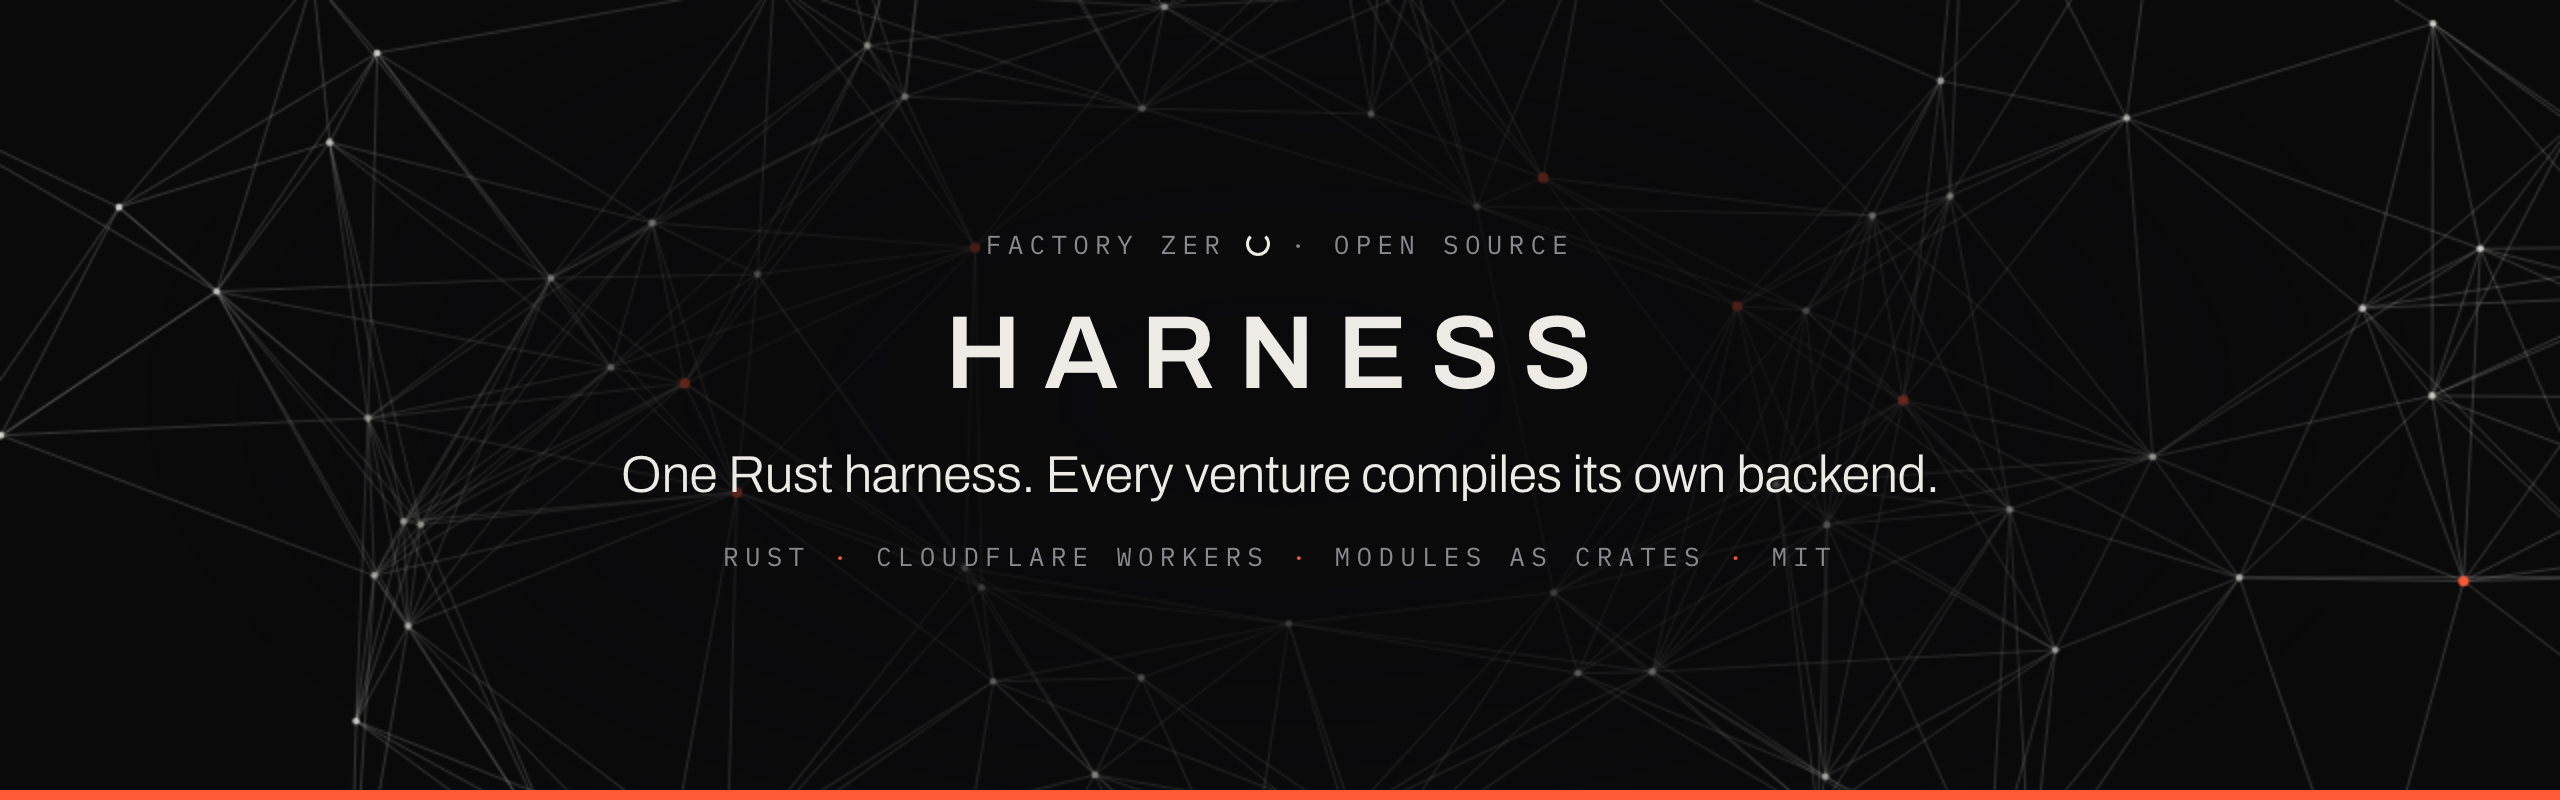
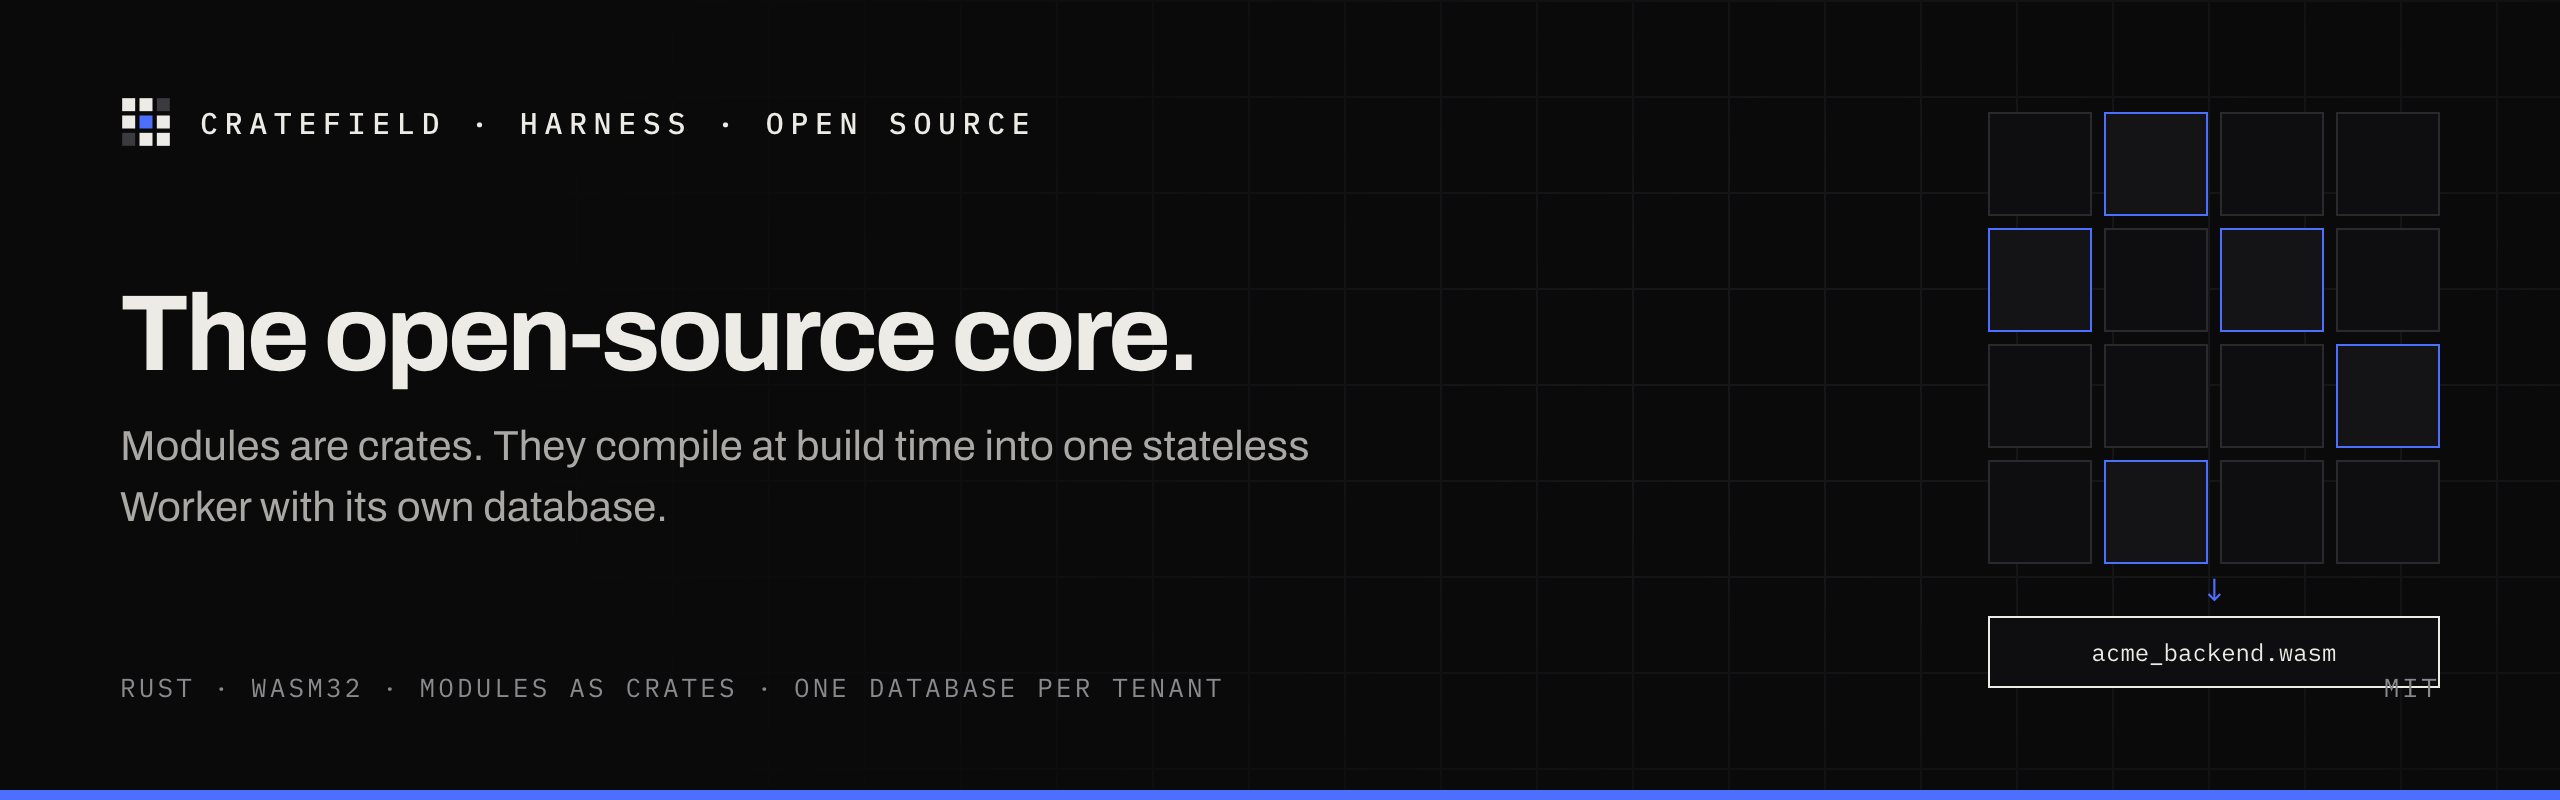
Rehome the harness under Cratefield
The repository moved from the Factory-Zero organisation to Cratefield, which is
the venture that commercialises it. This updates everything that pointed at the
old location or read as Factory Zero's own infrastructure.

- Every self-referencing URL, including the crate `repository` metadata that
  would be published to crates.io, the release-plz changelog base, the
  conformance workflow's reusable-call example, the CLI help text and the
  per-crate READMEs. GitHub redirects the old paths, but published metadata
  should name the real home.
- `Factory-Zero/harness-private`, `venture-backend-template` and
  `factory0-backend` are deliberately untouched. Those repositories stay in
  Factory Zero, and the private modules repo shares a URL prefix with this one,
  so the rewrite excluded it explicitly rather than by hope.
- The banner and a 1280x640 social preview are rendered from the same visual
  system as cratefield.com: the mesh, the field of modules resolving into one
  binary, and the one accent. Badge colour follows from Factory Zero's orange
  to Cratefield's blue.
- The intro no longer opens on the studio. It opens on what the harness is, and
  names Cratefield as the managed service being built on top, in the conditional
  because that service does not exist yet.

Crate names keep the `factory0-` prefix. Renaming published package names is a
breaking change for every consumer and buys nothing today, so the README says
[…]

diff --git a/tools/banner-render.html b/tools/banner-render.html
@@ -1,74 +1,110 @@
 <!DOCTYPE html>
-<!-- Source for assets/readme-banner.png. Regenerate with tools/render-banner.sh.
-     Query params: k=kicker t=title ("{o}" renders the Factory Zero ring) s=subtitle m=meta seed=n -->
+<!-- Source for assets/readme-banner.png and assets/social-preview.png.
+     Regenerate with tools/render-banner.sh.
+     Query params: k=kicker t=title s=subtitle m=meta h=height (400 | 640)
+
+     Deliberately the same visual system as cratefield.com: the 56px mesh, the
+     field of modules and ports resolving into one binary, and the one accent. -->
 <html lang="en">
 <head>
 <meta charset="utf-8">
 <link rel="preconnect" href="https://fonts.googleapis.com">
 <link rel="preconnect" href="https://fonts.gstatic.com" crossorigin>
-<link href="https://fonts.googleapis.com/css2?family=Archivo:wght@300;400;600&family=IBM+Plex+Mono:wght@400;500&display=swap" rel="stylesheet">
+<link href="https://fonts.googleapis.com/css2?family=Archivo:wght@400;500;600;700&family=IBM+Plex+Mono:wght@400;500&display=swap" rel="stylesheet">
 <style>
-  *{box-sizing:border-box}
-  html,body{margin:0;padding:0;background:#0A0A0B;width:1280px;height:400px;overflow:hidden}
-  .b{position:relative;width:1280px;height:400px;color:#EDEBE6;font-family:'Archivo',system-ui,sans-serif;-webkit-font-smoothing:antialiased}
-  canvas{position:absolute;inset:0;display:block}
-  .veil{position:absolute;inset:0;background:radial-gradient(ellipse 46% 70% at 50% 50%, rgba(10,10,11,.94) 0%, rgba(10,10,11,.72) 45%, rgba(10,10,11,0) 100%)}
-  .c{position:absolute;inset:0;display:grid;align-content:center;justify-items:center;gap:18px}
-  .kick{font-family:'IBM Plex Mono',monospace;font-size:13px;letter-spacing:.24em;color:#8A8A8E;display:flex;align-items:center;gap:10px}
-  .kick .o{width:12px;height:12px;border:1.6px solid #EDEBE6;border-top-color:transparent;border-radius:50%;display:inline-block}
-  .mark{display:flex;align-items:center;gap:16px;font-weight:600;font-size:52px;letter-spacing:.22em;text-transform:uppercase}
-  .mark .o{width:44px;height:44px;border:3.5px solid currentColor;border-top-color:transparent;border-radius:50%;display:inline-block;position:relative;top:-2px}
-  .tag{font-weight:300;font-size:26px;letter-spacing:-.01em;color:#EDEBE6;text-align:center;max-width:980px}
-  .meta{font-family:'IBM Plex Mono',monospace;font-size:13px;letter-spacing:.24em;color:#8A8A8E}
-  .meta b{color:#FF5A36;font-weight:400}
-  .rule{position:absolute;left:0;right:0;bottom:0;height:5px;background:#FF5A36}
+  * { box-sizing: border-box; }
+  html, body { margin: 0; padding: 0; background: #0A0A0B; overflow: hidden; }
+  .b {
+    position: relative; width: 1280px; color: #EDEBE6;
+    font-family: Archivo, system-ui, sans-serif; -webkit-font-smoothing: antialiased;
+  }
+  .mesh {
+    position: absolute; inset: 0;
+    background-image: linear-gradient(#16161a 1px, transparent 1px), linear-gradient(90deg, #16161a 1px, transparent 1px);
+    background-size: 48px 48px;
+    -webkit-mask-image: radial-gradient(ellipse 58% 100% at 78% 45%, #000 25%, transparent 100%);
+  }
+  .c { position: relative; height: 100%; display: grid; grid-template-rows: auto 1fr auto; padding: 48px 60px; }
+  .top { display: flex; align-items: center; gap: 14px; font-family: 'IBM Plex Mono', monospace; font-size: 15px; letter-spacing: .22em; font-weight: 500; }
+  .top svg { display: block; }
+  .mid { align-self: center; }
+  h1 { margin: 0 0 14px; font-weight: 700; letter-spacing: -.035em; line-height: 1; max-width: 700px; }
+  .tag { font-size: 21px; line-height: 1.45; color: #A9A8A5; max-width: 640px; margin: 0; }
+  .bottom { display: flex; justify-content: space-between; align-items: flex-end; gap: 32px; font-family: 'IBM Plex Mono', monospace; font-size: 13px; letter-spacing: .12em; color: #8A8A8E; }
+  .rule { position: absolute; left: 0; right: 0; bottom: 0; height: 5px; background: #4C6FFF; }
+
+  /* The field: modules and ports compiling into one binary. */
+  .field { position: absolute; display: grid; grid-template-columns: repeat(4, 52px); gap: 6px; }
+  .field i { display: block; width: 52px; height: 52px; border: 1px solid #2A2A2E; background: #0E0E10; }
+  .field i.on { border-color: #4C6FFF; background: #141416; }
+  .out { position: absolute; width: 226px; border: 1px solid #EDEBE6; background: #0E0E10; padding: 9px 12px; font-family: 'IBM Plex Mono', monospace; font-size: 12px; color: #EDEBE6; text-align: center; }
+  .arrow { position: absolute; color: #4C6FFF; font-family: 'IBM Plex Mono', monospace; font-size: 16px; }
 </style>
 </head>
 <body>
-<div class="b">
-  <canvas id="c" width="1280" height="400"></canvas>
-  <div class="veil"></div>
+<div class="b" id="b">
+  <div class="mesh"></div>
+  <div class="field" id="field"></div>
+  <div class="arrow" id="arrow">&darr;</div>
+  <div class="out" id="out">acme_backend.wasm</div>
   <div class="c">
-    <div class="kick" id="k"></div>
-    <div class="mark" id="t"></div>
-    <div class="tag" id="s"></div>
-    <div class="meta" id="m"></div>
+    <div class="top">
+      <svg width="26" height="26" viewBox="0 0 24 24" aria-hidden="true"><rect x="1" y="1" width="6" height="6" fill="#EDEBE6"/><rect x="9" y="1" width="6" height="6" fill="#EDEBE6"/><rect x="17" y="1" width="6" height="6" fill="#3A3A3F"/><rect x="1" y="9" width="6" height="6" fill="#EDEBE6"/><rect x="9" y="9" width="6" height="6" fill="#4C6FFF"/><rect x="17" y="9" width="6" height="6" fill="#EDEBE6"/><rect x="1" y="17" width="6" height="6" fill="#3A3A3F"/><rect x="9" y="17" width="6" height="6" fill="#EDEBE6"/><rect x="17" y="17" width="6" height="6" fill="#EDEBE6"/></svg>
+      <span id="k">CRATEFIELD · HARNESS</span>
+    </div>
+    <div class="mid">
+      <h1 id="t">The open-source core.</h1>
+      <p class="tag" id="s"></p>
+    </div>
+    <div class="bottom">
+      <div id="m"></div>
+      <div>MIT</div>
+    </div>
   </div>
   <div class="rule"></div>
 </div>
 <script>
 (function () {
   var q = new URLSearchParams(location.search);
-  function esc(s){ return s.replace(/[&<>]/g, function(c){ return {'&':'&amp;','<':'&lt;','>':'&gt;'}[c]; }); }
-  function ring(s, cls){ return esc(s).split('{o}').map(function(p){return '<span>'+p+'</span>';}).join('<span class="'+cls+'"></span>'); }
-  document.getElementById('k').innerHTML = ring(q.get('k') || 'FACTORY ZER{o}', 'o');
-  document.getElementById('t').innerHTML = ring(q.get('t') || 'HARNESS', 'o');
+  var H = parseInt(q.get('h') || '400', 10);
+
+  document.documentElement.style.height = H + 'px';
+  document.body.style.width = '1280px';
+  document.body.style.height = H + 'px';
+  var b = document.getElementById('b');
+  b.style.height = H + 'px';
+
+  if (q.get('k')) document.getElementById('k').textContent = q.get('k');
+  if (q.get('t')) document.getElementById('t').textContent = q.get('t');
   document.getElementById('s').textContent = q.get('s') || '';
-  document.getElementById('m').innerHTML = esc(q.get('m') || '').replace(/ · /g, '<b> · </b>');
-  var seed = parseInt(q.get('seed') || '0', 10);
-  var c = document.getElementById('c'), ctx = c.getContext('2d');
-  var W = 1280, H = 400, N = 96, p = 0.72, now = 4200 + seed * 977;
-  function rnd(n){ var x = Math.sin((n + seed * 31) * 12.9898) * 43758.5453; return x - Math.floor(x); }
-  function ease(t){ return t < 0 ? 0 : t > 1 ? 1 : 1 - Math.pow(1 - t, 3); }
-  var nodes = [];
-  for (var i = 0; i < N; i++) nodes.push({ ang: i * 2.39996 + rnd(i) * 0.4 + seed * 0.37, r: 110 + (i % 6) * 52 + rnd(i + 9) * 40, acc: i % 9 === 0, sp: 0.17 + 0.38 * (i / N) });
-  window.renderBanner = function () {
-    ctx.clearRect(0, 0, W, H);
-    var cx = W * 0.5, cy = H * 0.5, scale = 1.35;
-    var pos = nodes.map(function (n, idx) {
-      var age = ease((p - n.sp) / 0.07); if (age <= 0) return null;
-      var drift = Math.sin(now / 1400 + idx) * 3;
-      return { x: cx + Math.cos(n.ang) * (n.r * scale * age + drift) * 1.75, y: cy + Math.sin(n.ang) * (n.r * scale * age + drift) * 0.62, a: age, acc: n.acc };
-    });
-    var reach = (150 * scale) * (150 * scale);
-    ctx.lineWidth = 1;
-    for (var a = 0; a < N; a++) { var A = pos[a]; if (!A) continue;
-      for (var b = a + 1; b < N; b++) { var B = pos[b]; if (!B) continue;
-        var dx = A.x - B.x, dy = A.y - B.y;
-        if (dx * dx + dy * dy < reach) { ctx.strokeStyle = 'rgba(237,235,230,' + Math.min(A.a, B.a) * 0.20 + ')'; ctx.beginPath(); ctx.moveTo(A.x, A.y); ctx.lineTo(B.x, B.y); ctx.stroke(); } } }
-    pos.forEach(function (n) { if (!n) return; ctx.fillStyle = n.acc ? 'rgba(255,90,54,' + n.a + ')' : 'rgba(237,235,230,' + n.a * 0.8 + ')'; ctx.beginPath(); ctx.arc(n.x, n.y, n.acc ? 2.6 : 1.8, 0, 7); ctx.fill(); });
-  };
-  if (document.fonts && document.fonts.ready) document.fonts.ready.then(window.renderBanner); else window.addEventListener('load', window.renderBanner);
+  document.getElementById('m').textContent = q.get('m') || '';
+
+  // Type and furniture scale with the canvas so both sizes stay balanced.
+  var tall = H >= 560;
+  document.getElementById('t').style.fontSize = (tall ? 66 : 54) + 'px';
+  document.getElementById('s').style.fontSize = (tall ? 24 : 21) + 'px';
+  document.querySelector('.c').style.padding = (tall ? 64 : 48) + 'px 60px';
+
+  var field = document.getElementById('field');
+  var lit = { 1: 1, 4: 1, 6: 1, 11: 1, 13: 1 };
+  for (var i = 0; i < 16; i++) {
+    var cell = document.createElement('i');
+    if (lit[i]) cell.className = 'on';
+    field.appendChild(cell);
+  }
+  // 4 rows of 52px + 3 gaps of 6 = 226px of field, then the arrow and the output.
+  var fieldH = 226, outH = 36, arrowH = 26, stackH = fieldH + arrowH + outH;
+  var top = Math.round((H - stackH) / 2);
+  field.style.right = '60px';
+  field.style.top = top + 'px';
+  var arrow = document.getElementById('arrow');
+  arrow.style.right = '168px';
+  arrow.style.top = (top + fieldH + 2) + 'px';
+  var out = document.getElementById('out');
+  out.style.right = '60px';
+  out.style.top = (top + fieldH + arrowH) + 'px';
+
+  document.documentElement.setAttribute('data-banner-ready', '1');
 })();
 </script>
 </body>

diff --git a/crates/cli/src/main.rs b/crates/cli/src/main.rs
@@ -8,7 +8,7 @@ fn main() {
     eprintln!(
         "fz must run inside a venture: add the [[bin]] target that calls \
          factory0_cli::main_for(your::harness) — see \
-         https://github.com/Factory-Zero/harness (factory0-cli README)."
+         https://github.com/Cratefield/harness (factory0-cli README)."
     );
     std::process::exit(2);
 }

diff --git a/README.md b/README.md
@@ -1,37 +1,42 @@
 <p align="center">
-  <img src="assets/readme-banner.png" alt="Factory Zero Harness. One Rust harness. Every venture compiles its own backend." width="100%">
+  <img src="assets/readme-banner.png" alt="Cratefield Harness. The open-source core. Modules are crates, compiled into one stateless Worker with its own database." width="100%">
 </p>
 
 <p align="center">
-  <img src="https://img.shields.io/badge/STATUS-M2%20IN%20PROGRESS-FF5A36?style=flat-square&labelColor=0A0A0B" alt="Status: M2 in progress">
+  <img src="https://img.shields.io/badge/STATUS-M2%20IN%20PROGRESS-4C6FFF?style=flat-square&labelColor=0A0A0B" alt="Status: M2 in progress">
   <img src="https://img.shields.io/badge/LANGUAGE-RUST-EDEBE6?style=flat-square&labelColor=0A0A0B" alt="Language: Rust">
   <img src="https://img.shields.io/badge/TARGET-WASM32%20%C2%B7%20WORKERS-EDEBE6?style=flat-square&labelColor=0A0A0B" alt="Target: wasm32 on Cloudflare Workers">
   <img src="https://img.shields.io/badge/ROUTER-AXUM-EDEBE6?style=flat-square&labelColor=0A0A0B" alt="Router: axum">
   <img src="https://img.shields.io/badge/DATABASE-D1%20NOW%20%C2%B7%20POSTGRES%20LATER-EDEBE6?style=flat-square&labelColor=0A0A0B" alt="Database: D1 now, Postgres later">
-  <img src="https://img.shields.io/badge/LICENSE-MIT-FF5A36?style=flat-square&labelColor=0A0A0B" alt="License: MIT">
+  <img src="https://img.shields.io/badge/LICENSE-MIT-4C6FFF?style=flat-square&labelColor=0A0A0B" alt="License: MIT">
 </p>
 
 <p align="center">
-  <a href="https://github.com/Factory-Zero/harness/actions/workflows/parity.yml">
-    <img src="https://github.com/Factory-Zero/harness/actions/workflows/parity.yml/badge.svg" alt="parity: module suites on SQLite and Postgres (matrix)">
+  <a href="https://github.com/Cratefield/harness/actions/workflows/parity.yml">
+    <img src="https://github.com/Cratefield/harness/actions/workflows/parity.yml/badge.svg" alt="parity: module suites on SQLite and Postgres (matrix)">
   </a>
 </p>
 
 <p align="center">
-  <b>factory0.ventures</b> · HARNESS · <code>factory0-*</code> on crates.io
+  <b>cratefield.com</b> · HARNESS · the open-source core
 </p>
 
 ---
 
 # The harness
 
-Factory Zero builds companies that operate and grow themselves. Each of those
-companies needs a backend, and none of them should build one from scratch.
+Every product needs a backend, and almost none of them should be built from
+scratch. This is that backend, once.
 
-This is that backend, once. A **Rust** harness that every venture compiles its
-own backend from: pick module crates, wire adapters, ship **one stateless
-Cloudflare Worker**. Cloudflare D1 today, a self-hosted native binary later,
-with no module rewrites in between.
+A **Rust** harness you compile your own backend from: pick module crates, wire
+adapters, ship **one stateless Worker with its own database**. Cloudflare D1
+today, a self-hosted native binary later, with no module rewrites in between.
+
+This repository is the open-source core, MIT, and it is complete enough to run
+yourself today. [Cratefield](https://cratefield.com) is the managed service
+being built on top of it: builds, migrations, secrets, domains and monitoring,
+so you do not have to operate any of it. That service is not built yet, and the
+site says so on every page.
 
 > **Modules only see ports.**
 > A module never touches a Cloudflare binding, an environment variable, or a
@@ -96,7 +101,13 @@ flowchart LR
 
 ## Crates
 
-All public crates are `factory0-*`, MIT, published to crates.io.
+All public crates are `factory0-*`, MIT. Nothing is published to crates.io yet;
+depend on this repository by git.
+
+> The `factory0-` prefix predates the move of this repository into the
+> Cratefield organisation. Renaming published crate names is a breaking change
+> for every consumer, so the prefix stays until there is a release worth
+> breaking. It is a package namespace, not a statement about who maintains this.
 
 | Crate | Role |
 |---|---|
@@ -219,4 +230,5 @@ tools/
 
 ## License
 
-MIT. Built in the open by [Factory Zero](https://factory0.ventures).
+MIT. Built in the open for [Cratefield](https://cratefield.com), a
+[Factory Zero](https://factory0.ventures) venture.

diff --git a/docs/adr/0005-crate-naming-and-distribution.md b/docs/adr/0005-crate-naming-and-distribution.md
@@ -8,7 +8,7 @@ with plain `cargo add`. Private crates must not require running a registry.
 
 ## Decision
 - Open-source crates: prefix `factory0-`, published to crates.io from
-  `Factory-Zero/harness` with trusted publishing (GitHub OIDC).
+  `Cratefield/harness` with trusted publishing (GitHub OIDC).
 - Private crates: prefix `fz-`, never published; consumed as
   `fz-module-admin = { git = "ssh://git@github.com/Factory-Zero/harness-private", tag = "fz-module-admin-v0.3.0" }`.
 - Version tags in the private repo follow `<crate>-v<semver>` so one repo can carry many crates.

diff --git a/docs/RELEASING.md b/docs/RELEASING.md
@@ -56,7 +56,7 @@ crate exists**, so the very first release of each crate is manual:
    until those are published first — hence the order.)
 3. **Enable trusted publishing per crate.** For each published crate:
    crates.io → crate page → *Settings* → *Trusted publishing* → add
-   repository `Factory-Zero/harness`, workflow `release.yml`,
+   repository `Cratefield/harness`, workflow `release.yml`,
    environment *(leave empty)*. From then on the release workflow
    publishes that crate with OIDC and no token.
 4. **Revoke the token from step 1.**

diff --git a/docs/ARCHITECTURE.md b/docs/ARCHITECTURE.md
@@ -60,10 +60,10 @@ crates.io, so the prefix does the job.
 
 | Prefix | Distribution | Visibility | Lives in |
 |---|---|---|---|
-| `factory0-*` | crates.io | public, MIT | `Factory-Zero/harness` |
+| `factory0-*` | crates.io | public, MIT | `Cratefield/harness` |
 | `fz-*` | git dependency (`git = "ssh://git@github.com/Factory-Zero/harness-private"`, pinned `tag`) | private | `Factory-Zero/harness-private` |
 
-### `Factory-Zero/harness` (public Cargo workspace)
+### `Cratefield/harness` (public Cargo workspace)
 
 | Crate | Role |
 |---|---|

diff --git a/crates/adapter-postgres/README.md b/crates/adapter-postgres/README.md
@@ -1,7 +1,7 @@
 # factory0-adapter-postgres
 
 The [`Database`] port over `sqlx` Postgres 16 for the [Factory Zero
-harness](https://github.com/Factory-Zero/harness) native runtime (ADR 0004,
+harness](https://github.com/Cratefield/harness) native runtime (ADR 0004,
 issue #18). **Native only** — the crate fails compilation on any wasm
 target with a clear message, and the sqlx dependency is target-gated to
 non-wasm builds, so it can never slip into a Worker.

diff --git a/crates/runtime-native/README.md b/crates/runtime-native/README.md
@@ -1,6 +1,6 @@
 # factory0-runtime-native
 
-The native runtime for the [Factory Zero harness](https://github.com/Factory-Zero/harness):
+The native runtime for the [Cratefield harness](https://github.com/Cratefield/harness):
 the same `Harness` served by axum on tokio as a single binary, for the
 self-hosted move (ADR 0001, architecture section 10, issue #19). Cloudflare
 Workers today, one binary on your own Postgres and Redis tomorrow — same

diff --git a/docs/SECURITY.md b/docs/SECURITY.md
@@ -65,7 +65,7 @@
 ## Reporting a vulnerability
 
 Report privately to `security@factory0.ventures` (or a GitHub security
-advisory on `Factory-Zero/harness`). Please include reproduction steps
+advisory on `Cratefield/harness`). Please include reproduction steps
 and affected commit; do not open a public issue for exploitable
 findings. We aim to respond within 72 hours and will credit reporters
 unless anonymity is requested.

diff --git a/crates/runtime-cloudflare/README.md b/crates/runtime-cloudflare/README.md
@@ -1,6 +1,6 @@
 # factory0-runtime-cloudflare
 
-Cloudflare Workers runtime for the [Factory Zero harness](https://github.com/Factory-Zero/harness):
+Cloudflare Workers runtime for the [Cratefield harness](https://github.com/Cratefield/harness):
 maps Workers bindings to the harness ports and serves a `Harness` on
 `#[event(fetch)]` / `#[event(scheduled)]`.
 
